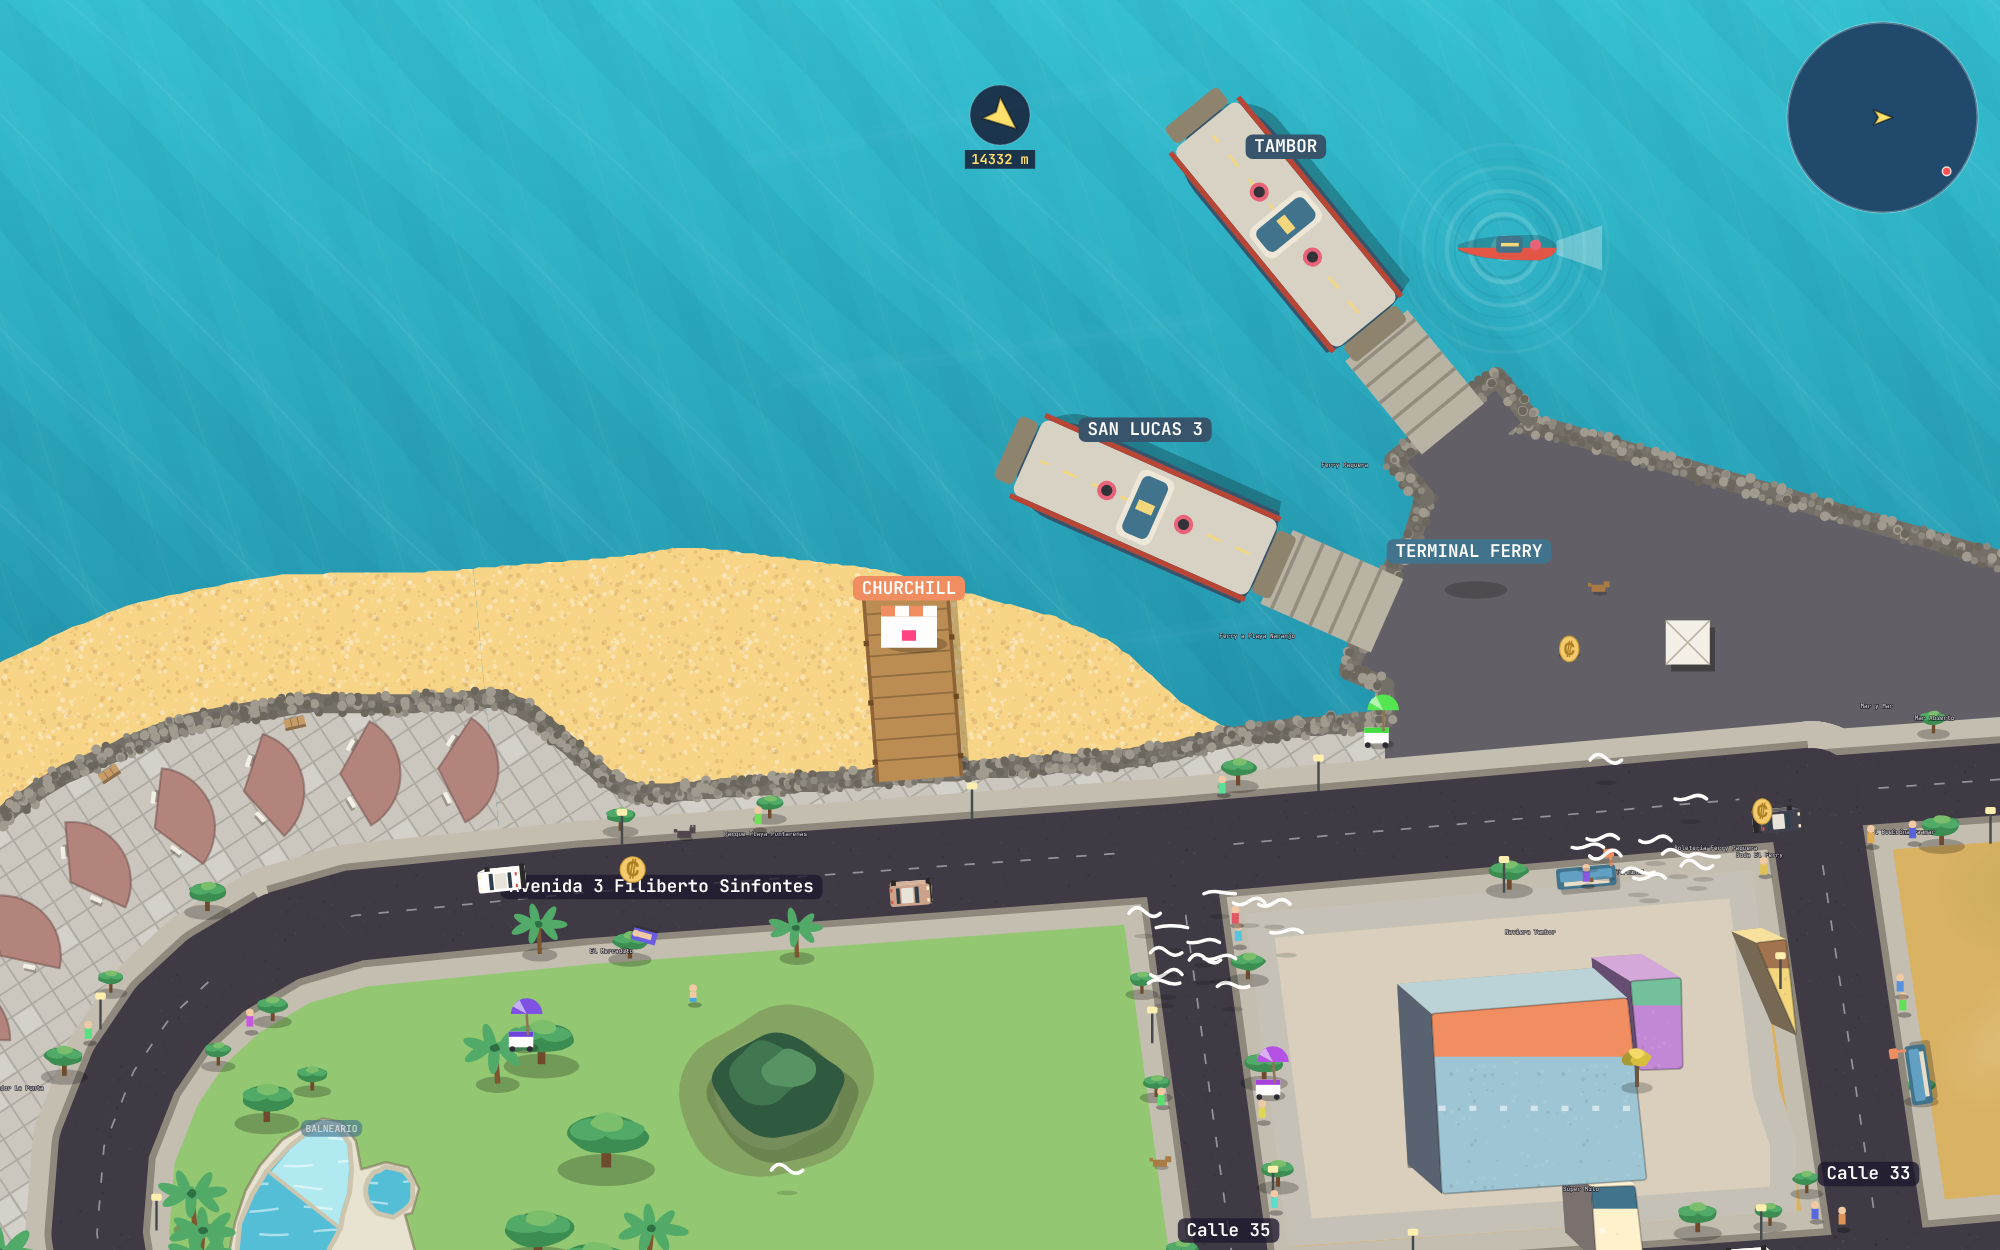
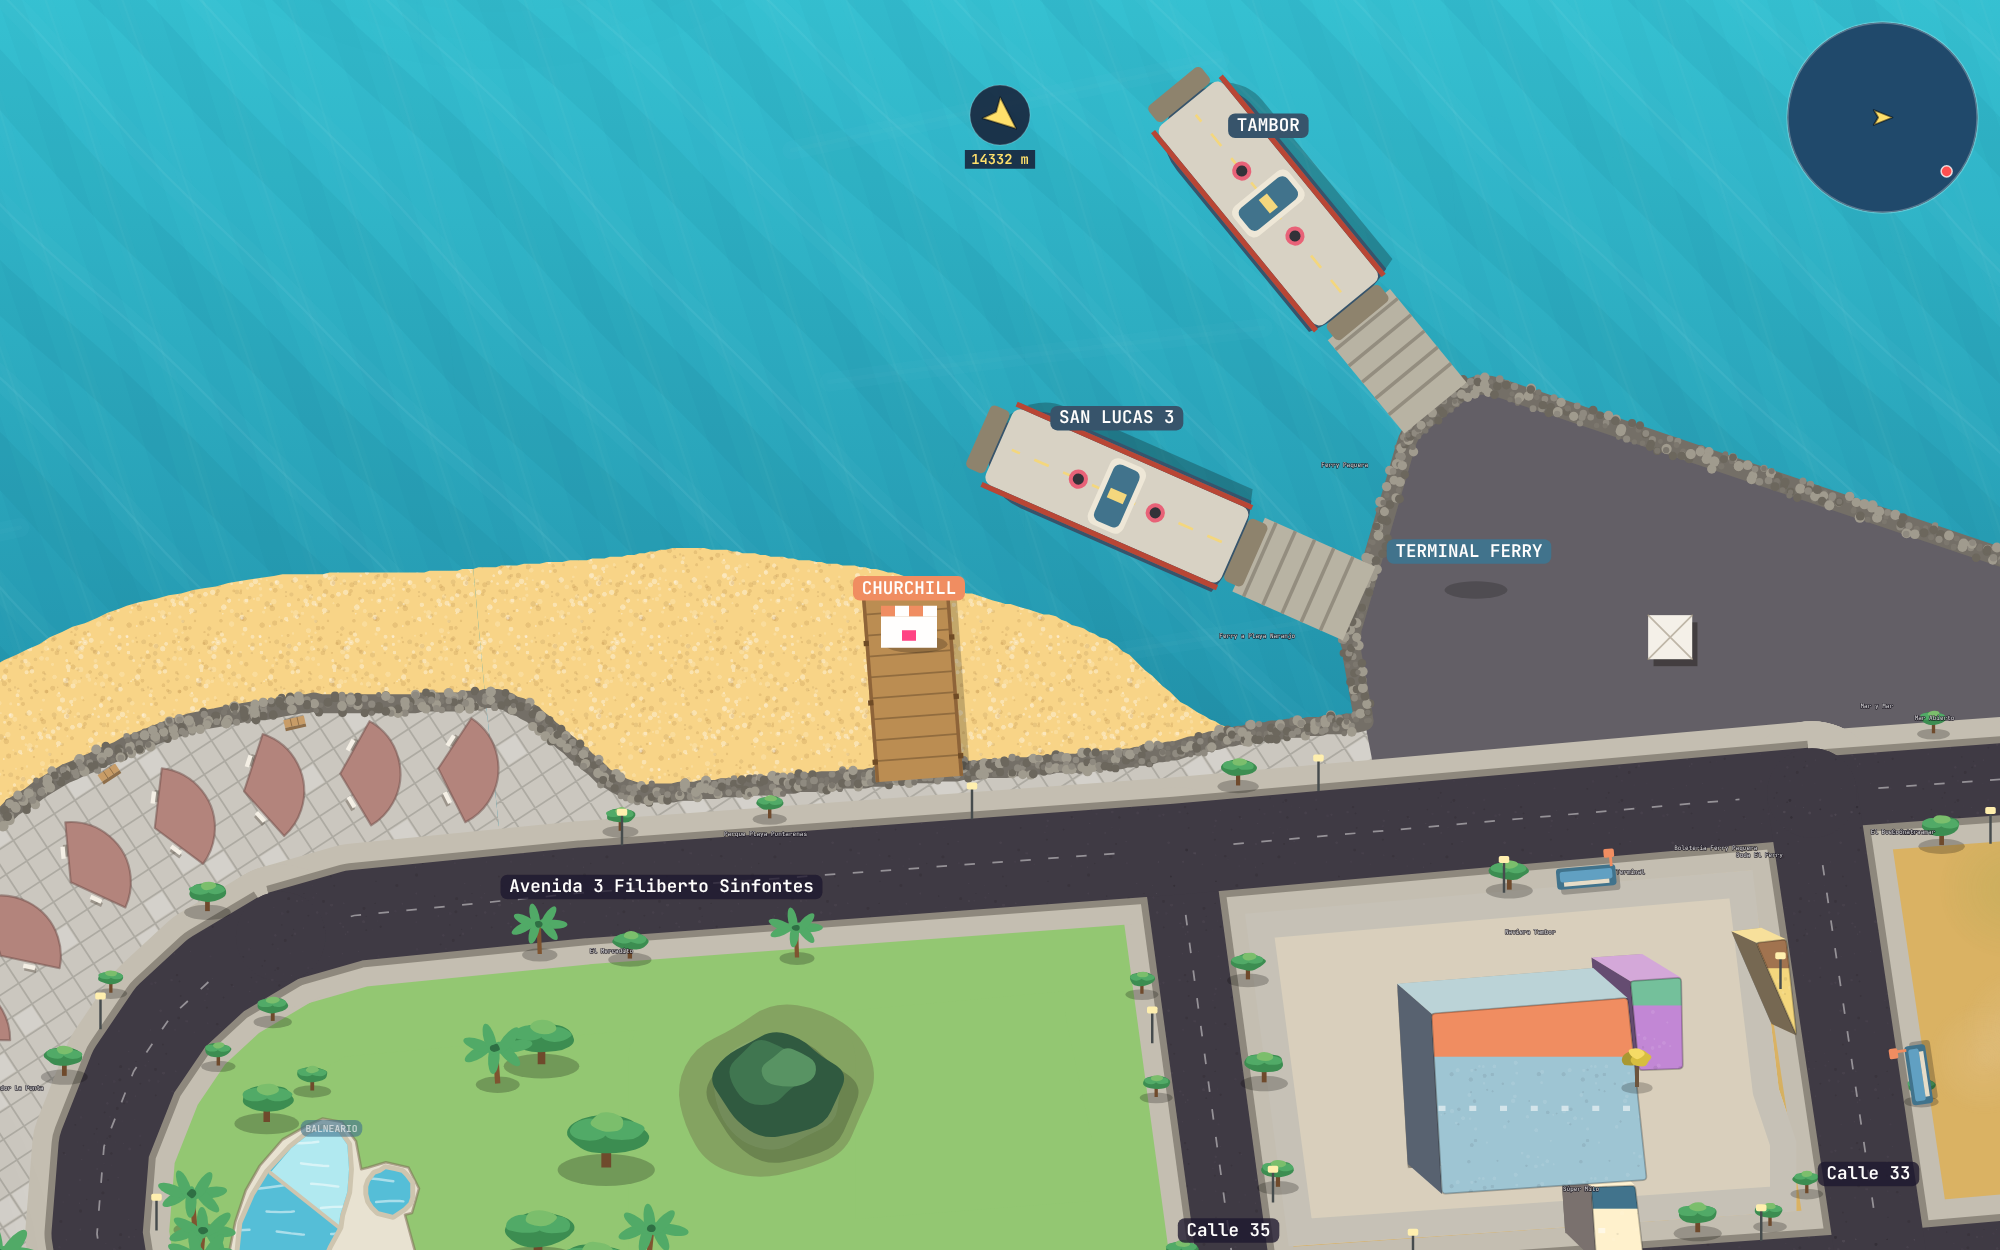
feat(world): los frentes de las rampas son parte del patio de la terminal — una sola escollera
En vez de estribos aparte con su propia escollera, un primer patio da
dónde sale cada rampa, su frente a escuadra entra a la envolvente y el
patio se rehace con él: una sola plataforma, un solo borde de piedra, y
cada rampa arranca de un lado recto. Preview sin reconstruir.

Claude-Session: https://claude.ai/code/session_018GSydhWuDAT4g4GG3QKVY6

diff --git a/src/render/c2d/punta.js b/src/render/c2d/punta.js
@@ -326,10 +326,7 @@ function drawPunta(view, t = 0) {
       ctx.moveTo(tn.x - tn.s / 2, tn.y - tn.s / 2); ctx.lineTo(tn.x + tn.s / 2, tn.y + tn.s / 2); ctx.moveTo(tn.x + tn.s / 2, tn.y - tn.s / 2); ctx.lineTo(tn.x - tn.s / 2, tn.y + tn.s / 2); ctx.stroke();
     }
   }  for (const line of P.riprap || []) paintRiprap(line, view);
-  // los estribos de las rampas, ENCIMA de la escollera: la piedra pasa por debajo de cada rampa
-  if (P.yard) { ctx.fillStyle = M.yard.asphalt; for (const ab of P.yard.abutments || []) { if (!ab._p) ab._p = flatPath(ab, true); ctx.fill(ab._p); } }
-  // …y su propia escollera alrededor, que el tablero de la rampa (los ferris, más tarde) tapa al pasar por encima
-  if (P.yard) for (const line of P.yard.abutRocks || []) paintRiprap(line, view);
+
 
   // el suelo, en el orden en que el mundo lo trae: terreno, deck, malecones…
   for (const g of P.grounds || []) {
